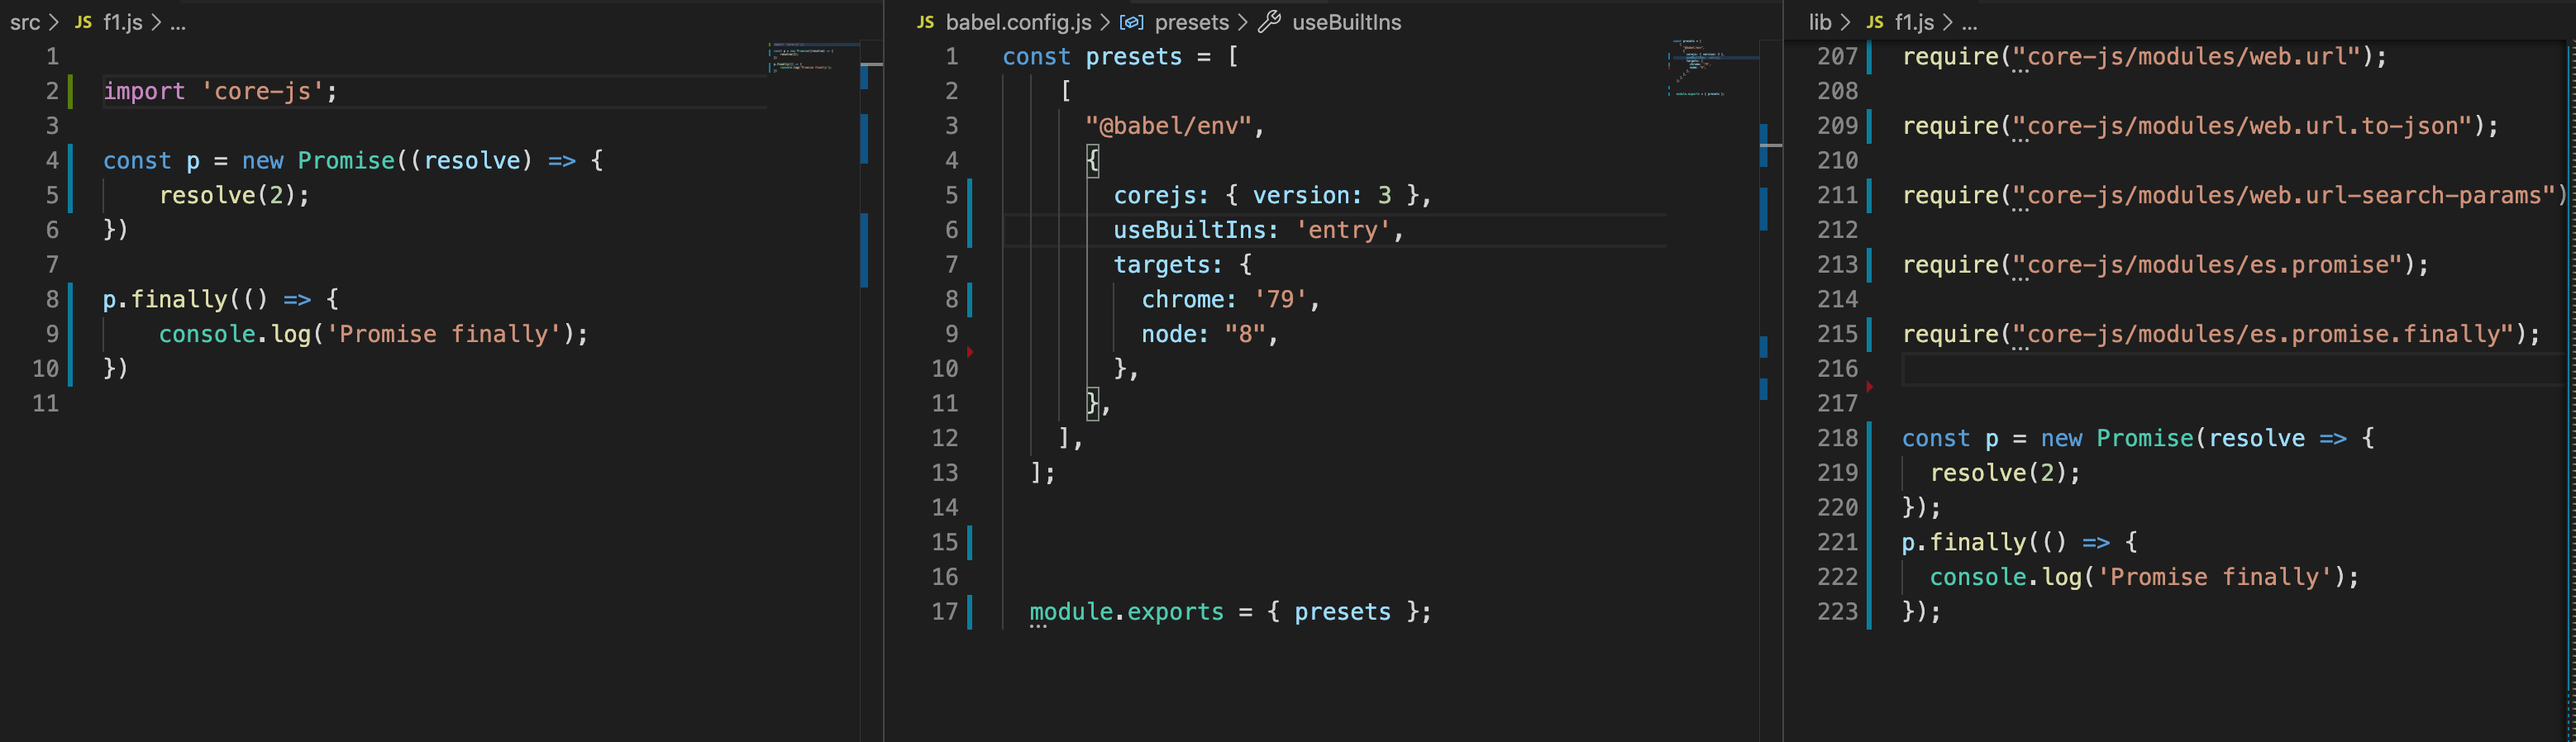
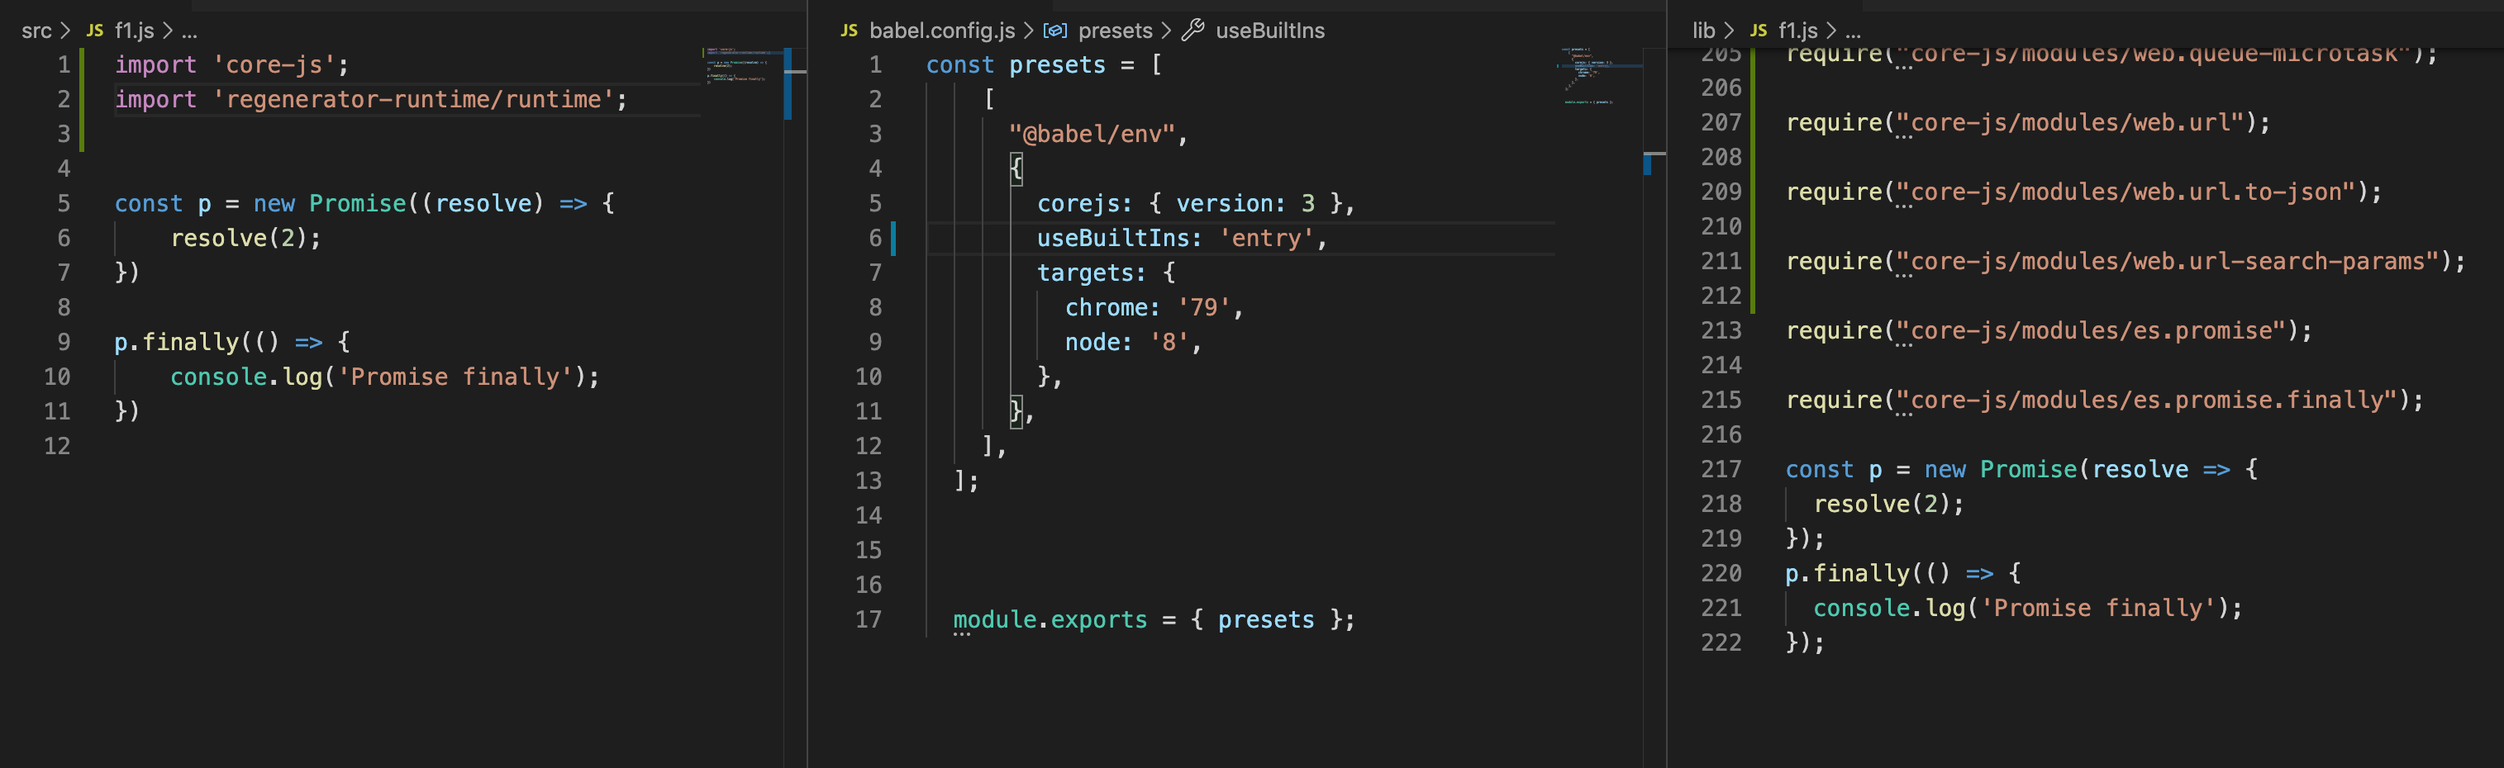
Updated Readme.md

diff --git a/lib/f1.js b/lib/f1.js
@@ -1,5 +1,215 @@
 "use strict";
 
+require("core-js/modules/es.symbol.description");
+
+require("core-js/modules/es.symbol.async-iterator");
+
+require("core-js/modules/es.array.flat");
+
+require("core-js/modules/es.array.flat-map");
+
+require("core-js/modules/es.array.iterator");
+
+require("core-js/modules/es.array.sort");
+
+require("core-js/modules/es.array.unscopables.flat");
+
+require("core-js/modules/es.array.unscopables.flat-map");
+
+require("core-js/modules/es.math.hypot");
+
+require("core-js/modules/es.object.define-getter");
+
+require("core-js/modules/es.object.define-setter");
+
+require("core-js/modules/es.object.from-entries");
+
+require("core-js/modules/es.object.lookup-getter");
+
+require("core-js/modules/es.object.lookup-setter");
+
+require("core-js/modules/es.string.replace");
+
+require("core-js/modules/es.string.trim");
+
+require("core-js/modules/es.string.trim-end");
+
+require("core-js/modules/es.string.trim-start");
+
+require("core-js/modules/esnext.aggregate-error");
+
+require("core-js/modules/esnext.array.last-index");
+
+require("core-js/modules/esnext.array.last-item");
+
+require("core-js/modules/esnext.composite-key");
+
+require("core-js/modules/esnext.composite-symbol");
+
+require("core-js/modules/esnext.global-this");
+
+require("core-js/modules/esnext.map.delete-all");
+
+require("core-js/modules/esnext.map.every");
+
+require("core-js/modules/esnext.map.filter");
+
+require("core-js/modules/esnext.map.find");
+
+require("core-js/modules/esnext.map.find-key");
+
+require("core-js/modules/esnext.map.from");
+
+require("core-js/modules/esnext.map.group-by");
+
+require("core-js/modules/esnext.map.includes");
+
+require("core-js/modules/esnext.map.key-by");
+
+require("core-js/modules/esnext.map.key-of");
+
+require("core-js/modules/esnext.map.map-keys");
+
+require("core-js/modules/esnext.map.map-values");
+
+require("core-js/modules/esnext.map.merge");
+
+require("core-js/modules/esnext.map.of");
+
+require("core-js/modules/esnext.map.reduce");
+
+require("core-js/modules/esnext.map.some");
+
+require("core-js/modules/esnext.map.update");
+
+require("core-js/modules/esnext.math.clamp");
+
+require("core-js/modules/esnext.math.deg-per-rad");
+
+require("core-js/modules/esnext.math.degrees");
+
+require("core-js/modules/esnext.math.fscale");
+
+require("core-js/modules/esnext.math.iaddh");
+
+require("core-js/modules/esnext.math.imulh");
+
+require("core-js/modules/esnext.math.isubh");
+
+require("core-js/modules/esnext.math.rad-per-deg");
+
+require("core-js/modules/esnext.math.radians");
+
+require("core-js/modules/esnext.math.scale");
+
+require("core-js/modules/esnext.math.seeded-prng");
+
+require("core-js/modules/esnext.math.signbit");
+
+require("core-js/modules/esnext.math.umulh");
+
+require("core-js/modules/esnext.number.from-string");
+
+require("core-js/modules/esnext.observable");
+
+require("core-js/modules/esnext.promise.all-settled");
+
+require("core-js/modules/esnext.promise.any");
+
+require("core-js/modules/esnext.promise.try");
+
+require("core-js/modules/esnext.reflect.define-metadata");
+
+require("core-js/modules/esnext.reflect.delete-metadata");
+
+require("core-js/modules/esnext.reflect.get-metadata");
+
+require("core-js/modules/esnext.reflect.get-metadata-keys");
+
+require("core-js/modules/esnext.reflect.get-own-metadata");
+
+require("core-js/modules/esnext.reflect.get-own-metadata-keys");
+
+require("core-js/modules/esnext.reflect.has-metadata");
+
+require("core-js/modules/esnext.reflect.has-own-metadata");
+
+require("core-js/modules/esnext.reflect.metadata");
+
+require("core-js/modules/esnext.set.add-all");
+
+require("core-js/modules/esnext.set.delete-all");
+
+require("core-js/modules/esnext.set.difference");
+
+require("core-js/modules/esnext.set.every");
+
+require("core-js/modules/esnext.set.filter");
+
+require("core-js/modules/esnext.set.find");
+
+require("core-js/modules/esnext.set.from");
+
+require("core-js/modules/esnext.set.intersection");
+
+require("core-js/modules/esnext.set.is-disjoint-from");
+
+require("core-js/modules/esnext.set.is-subset-of");
+
+require("core-js/modules/esnext.set.is-superset-of");
+
+require("core-js/modules/esnext.set.join");
+
+require("core-js/modules/esnext.set.map");
+
+require("core-js/modules/esnext.set.of");
+
+require("core-js/modules/esnext.set.reduce");
+
+require("core-js/modules/esnext.set.some");
+
+require("core-js/modules/esnext.set.symmetric-difference");
+
+require("core-js/modules/esnext.set.union");
+
+require("core-js/modules/esnext.string.at");
+
+require("core-js/modules/esnext.string.code-points");
+
+require("core-js/modules/esnext.string.match-all");
+
+require("core-js/modules/esnext.string.replace-all");
+
+require("core-js/modules/esnext.symbol.dispose");
+
+require("core-js/modules/esnext.symbol.observable");
+
+require("core-js/modules/esnext.symbol.pattern-match");
+
+require("core-js/modules/esnext.weak-map.delete-all");
+
+require("core-js/modules/esnext.weak-map.from");
+
+require("core-js/modules/esnext.weak-map.of");
+
+require("core-js/modules/esnext.weak-set.add-all");
+
+require("core-js/modules/esnext.weak-set.delete-all");
+
+require("core-js/modules/esnext.weak-set.from");
+
+require("core-js/modules/esnext.weak-set.of");
+
+require("core-js/modules/web.immediate");
+
+require("core-js/modules/web.queue-microtask");
+
+require("core-js/modules/web.url");
+
+require("core-js/modules/web.url.to-json");
+
+require("core-js/modules/web.url-search-params");
+
 require("core-js/modules/es.promise");
 
 require("core-js/modules/es.promise.finally");

diff --git a/babel.config.js b/babel.config.js
@@ -12,6 +12,15 @@ const presets = [
     ],
   ];
 
-
+  const plugins = [
+    [
+      "@babel/plugin-transform-runtime",
+      {
+        regenerator: true,
+        corejs: false,
+      }
+    ]
+  ]
   
-  module.exports = { presets };
+
+  module.exports = { presets, plugins };

diff --git a/src/f1.js b/src/f1.js
@@ -1,3 +1,6 @@
+import 'core-js';
+import 'regenerator-runtime/runtime';
+
 
 const p = new Promise((resolve) => {
     resolve(2);

diff --git a/README.md b/README.md
@@ -45,9 +45,11 @@ include above 2 statements in the entry file of project. After transpiling those
   
  ![](images/usageEntry.png)
 
-For a give targets(Chrome:79 and node:8), import 'core-js' is replaced with individual require of 106 individual polyfills.
-IF we have node used useBuiltIns: 'entry', then all the polyfills in the core-js library would have included in output file(which is more that 106 polyfills).
+For a given targets(Chrome:79 and node:8), import 'core-js' is replaced with individual require of 106 individual polyfills.
+If we have node used useBuiltIns: 'entry', then all the polyfills in the core-js library would have included in output file(which is more that 106 polyfills).
 Out of 106 polyfills we have only need 2 polyfills for our code to work; Remaining polyfills are added to support target environment.
+
+Even if we have imported 'regenerator-runtime/runtime' in the source code, that polyfill is not there in the output file because both the targets natively supports generator and async functions.
 
 
 Now let's remove the target node:8 and use only Chrome:79 as target.
@@ -56,7 +58,7 @@ Now let's remove the target node:8 and use only Chrome:79 as target.
 No polyfills have been imported in output file because chrome(vesrion 79) by default supports Promise and Promise.finally functionality.
 
 
-useBuiltIns="usage"
+2.useBuiltIns="usage"
 
 include polyfills for esnext functionality which are not supported by target environment but used in our source code.
 
